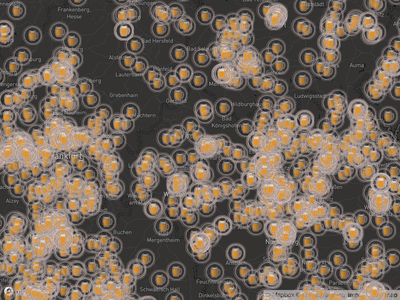
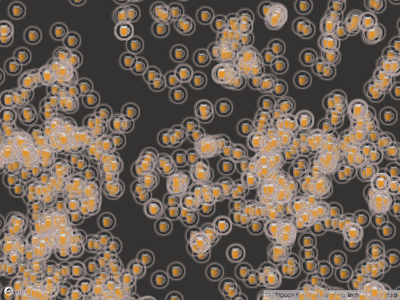
Update binary transport

diff --git a/bindings/pydeck/docs/gallery/html/grid.html b/bindings/pydeck/docs/gallery/html/grid.html
@@ -38,6 +38,13 @@
 
   
   <div class='grid-cell'>
+      <a href="./gallery/binary_transport.html">
+    <img width="200" src="./_images/binary_transport.png"></img>
+      <div class='thumb-text'>Binary Transport</div></a>
+  </div>
+
+  
+  <div class='grid-cell'>
       <a href="./gallery/bitmap_layer.html">
     <img width="200" src="./_images/bitmap_layer.png"></img>
       <div class='thumb-text'>BitmapLayer</div></a>
@@ -83,13 +90,6 @@
       <a href="./gallery/globe_view.html">
     <img width="200" src="./_images/globe_view.png"></img>
       <div class='thumb-text'>GlobeView</div></a>
-  </div>
-
-  
-  <div class='grid-cell'>
-      <a href="./gallery/graph_example.html">
-    <img width="200" src="./_images/graph_example.png"></img>
-      <div class='thumb-text'>Graph Example</div></a>
   </div>
 
   

diff --git a/bindings/pydeck/docs/scripts/const.py b/bindings/pydeck/docs/scripts/const.py
@@ -5,6 +5,8 @@ here = os.path.dirname(os.path.abspath(__file__))
 
 # EXAMPLE_GLOB is the directory of the code examples from pydeck
 EXAMPLE_GLOB = [os.path.join(here, '..', g) for g in glob.glob("../examples/*.py")]
+# EXAMPLE_NAMES represents the snake_case names of the examples on the website
+EXAMPLE_NAMES = [os.path.basename(g).replace('.py', '') for g in glob.glob("../examples/*.py")]
 # GALLERY_DIR is the directory of the files for the gallery page, locally / before Sphinx processing
 GALLERY_DIR = os.path.join(here, "../gallery/")
 # HTML_DIR is the directory of the .html files for the gallery page, locally / before Sphinx processing
@@ -15,3 +17,5 @@ LOCAL_IMAGE_DIR = os.path.join(here, "../gallery/images/")
 HOSTED_STATIC_PATH = "../_static/"
 # DECKGL_URL_BASE is the link to the deck.gl API reference document for the layers
 DECKGL_URL_BASE = "https://deck.gl/docs/api-reference/layers/"
+# LOCAL_DOCS_PATH is the path to the pydeck documentation directory in this git repo
+LOCAL_DOCS_PATH = os.path.join(here, '..')

diff --git a/bindings/pydeck/examples/binary_transport.py b/bindings/pydeck/examples/binary_transport.py
@@ -36,7 +36,7 @@ def generate_graph_data(num_nodes, random_seed):
 
 def make_renderer(nodes, use_binary_transport=False):
     """Creates the pydeck visualization for rendering"""
-    view_state = pydeck.ViewState(offset=[0, 0], latitude=None, longitude=None, bearing=None, pitch=None, zoom=4,)
+    view_state = pydeck.ViewState(offset=[0, 0], latitude=None, longitude=None, bearing=None, pitch=None, zoom=14,)
 
     views = [pydeck.View(type="OrbitView", controller=True)]
 
@@ -78,7 +78,7 @@ def generate_vis(notebook_display=False):
 
     if not notebook_display:
         r = make_renderer(nodes, use_binary_transport=False)
-        r.to_html("binary_transport.html", notebook_display=notebook_display)
+        r.to_html("binary_transport.html", css_background_color='charcoal', notebook_display=notebook_display)
     else:
         r = make_renderer(nodes, use_binary_transport=True)
         display(r.show())  # noqa

diff --git a/bindings/pydeck/docs/scripts/update_images_rst.py b/bindings/pydeck/docs/scripts/update_images_rst.py
@@ -1,0 +1,15 @@
+"""Generates an rst file that tells sphinx includes the image assets when building the docs"""
+import os
+
+from templates import LOCAL_DOCS_PATH, IMAGES_RST_TEMPLATE
+from const import EXAMPLE_NAMES
+
+
+def main():
+    rendered = IMAGES_RST_TEMPLATE.render(assets=EXAMPLE_NAMES)
+    with open(os.path.join(LOCAL_DOCS_PATH, 'images.rst'), 'w+') as f:
+        f.write(rendered)
+
+
+if __name__ == '__main__':
+    main()

diff --git a/bindings/pydeck/docs/scripts/templates.py b/bindings/pydeck/docs/scripts/templates.py
@@ -84,5 +84,18 @@ Source
 """
 )
 
+IMAGES_RST_TEMPLATE = jinja2.Template('''
 
+{% for image_basename in assets %}
+.. image:: gallery/images/{{ image_basename }}.png
+   :width: 0
+{% endfor %}
 
+.. toctree::
+   :hidden:
+   :maxdepth: 0
+
+{% for rst_name in assets %}
+   gallery/{{rst_name}}
+{% endfor %}
+''')

diff --git a/bindings/pydeck/docs/images.rst b/bindings/pydeck/docs/images.rst
@@ -1,11 +1,13 @@
 ..
   These image tags are manually added to include these images in the _static directory
-  TODO this should be automated in the future.
 
 .. image:: gallery/images/arc_layer.png
    :width: 0
 
 .. image:: gallery/images/bitmap_layer.png
+   :width: 0
+
+.. image:: gallery/images/binary_transport.png
    :width: 0
 
 .. image:: gallery/images/column_layer.png
@@ -66,6 +68,9 @@
    :width: 0
 
 .. image:: gallery/images/screengrid_layer.png
+   :width: 0
+
+.. image:: gallery/images/terrain_layer.png
    :width: 0
 
 .. image:: gallery/images/text_layer.png
